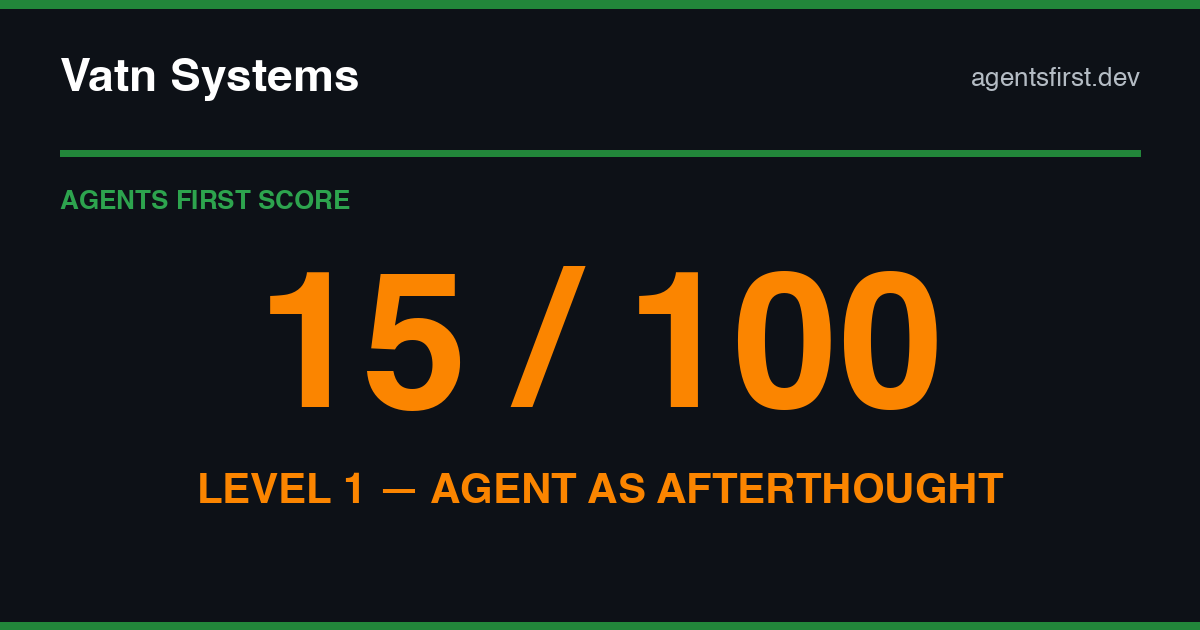
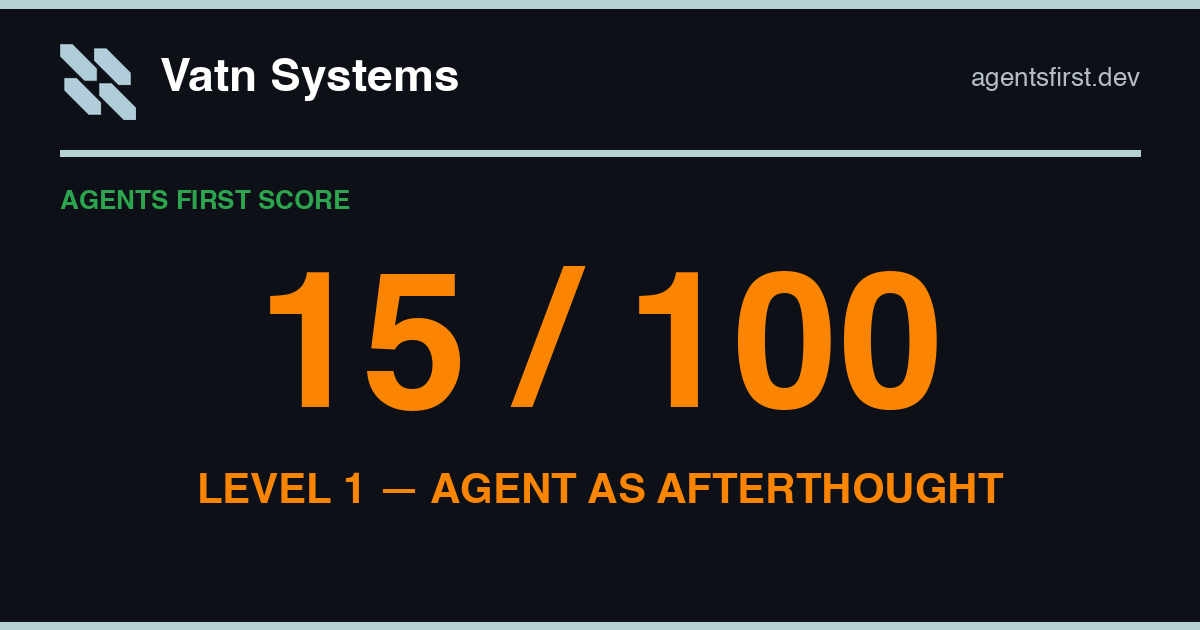
feat(og-card): brand 12 verified portfolio cards via brand_domain
Added brand_domain front-matter to 12 portfolio pages whose domains I verified
resolve to the right company (Aalo, Aceable, Allen Control, AmplifAI, App Orchid,
ICON, Radia, Vatn, X-Bow, Eagle Eye/een.com, TAE, Voyager). Left 4 logo-less to
avoid wrong logos: starlab.space (domain-for-sale parking page), casimir.co (dead),
keentechnologies.com (inconclusive), Circuit (too generic).

Changed region(s): [[0.0308, 0.0603, 0.9558, 0.2714], [0.0, 0.9651, 1.0, 1.0], [0.0, 0.0, 1.0, 0.0302]]

diff --git a/scores/portfolio-allen-control-systems-7ca6c92fa6f5/index.md b/scores/portfolio-allen-control-systems-7ca6c92fa6f5/index.md
@@ -4,6 +4,7 @@ description: "Score: 5/100 · Level 0 (No agent access). Allen Control Systems i
 noindex: true
 sitemap: false
 image: /scores/portfolio-allen-control-systems-7ca6c92fa6f5/og.png
+brand_domain: allencontrolsystems.com
 author: Joshua Baer
 ---
 

diff --git a/scores/portfolio-voyager-space-holdings-ec0657e7844b/index.md b/scores/portfolio-voyager-space-holdings-ec0657e7844b/index.md
@@ -4,6 +4,7 @@ description: "Score: 10/100 · Level 0 (No agent access). Voyager Space Holdings
 noindex: true
 sitemap: false
 image: /scores/portfolio-voyager-space-holdings-ec0657e7844b/og.png
+brand_domain: voyagerspace.com
 author: Joshua Baer
 ---
 

diff --git a/scores/portfolio-x-bow-systems-0ce513395ea2/index.md b/scores/portfolio-x-bow-systems-0ce513395ea2/index.md
@@ -4,6 +4,7 @@ description: "Score: 0/100 · Level 0 (No agent access). X-Bow Systems is a Capi
 noindex: true
 sitemap: false
 image: /scores/portfolio-x-bow-systems-0ce513395ea2/og.png
+brand_domain: xbowsystems.com
 author: Joshua Baer
 ---
 

diff --git a/scores/portfolio-vatn-systems-80d7c321c80c/index.md b/scores/portfolio-vatn-systems-80d7c321c80c/index.md
@@ -4,6 +4,7 @@ description: "Score: 15/100 · Level 1 (Agent as Afterthought). Vatn Systems is 
 noindex: true
 sitemap: false
 image: /scores/portfolio-vatn-systems-80d7c321c80c/og.png
+brand_domain: vatnsystems.com
 author: Joshua Baer
 ---
 

diff --git a/scores/portfolio-eagle-eye-networks-7fd6a17e1c26/index.md b/scores/portfolio-eagle-eye-networks-7fd6a17e1c26/index.md
@@ -4,6 +4,7 @@ description: "Score: 10/100 · Level 0 (No agent access). Eagle Eye Networks is 
 noindex: true
 sitemap: false
 image: /scores/portfolio-eagle-eye-networks-7fd6a17e1c26/og.png
+brand_domain: een.com
 author: Joshua Baer
 ---
 

diff --git a/scores/portfolio-app-orchid-2fa74a5f1af4/index.md b/scores/portfolio-app-orchid-2fa74a5f1af4/index.md
@@ -4,6 +4,7 @@ description: "Score: 5/100 · Level 0 (No agent access). App Orchid is a Capital
 noindex: true
 sitemap: false
 image: /scores/portfolio-app-orchid-2fa74a5f1af4/og.png
+brand_domain: apporchid.com
 author: Joshua Baer
 ---
 

diff --git a/scores/portfolio-aalo-atomics-ad7872443dda/index.md b/scores/portfolio-aalo-atomics-ad7872443dda/index.md
@@ -4,6 +4,7 @@ description: "Score: 0/100 · Level 0 (No agent access). Aalo Atomics is a Capit
 noindex: true
 sitemap: false
 image: /scores/portfolio-aalo-atomics-ad7872443dda/og.png
+brand_domain: aalo.com
 author: Joshua Baer
 ---
 

diff --git a/scores/portfolio-amplifai-63852d23f176/index.md b/scores/portfolio-amplifai-63852d23f176/index.md
@@ -4,6 +4,7 @@ description: "Score: 5/100 · Level 0 (No agent access). AmplifAI is a Capital F
 noindex: true
 sitemap: false
 image: /scores/portfolio-amplifai-63852d23f176/og.png
+brand_domain: amplifai.com
 author: Joshua Baer
 ---
 

diff --git a/scores/portfolio-aceable-29f759278d32/index.md b/scores/portfolio-aceable-29f759278d32/index.md
@@ -4,6 +4,7 @@ description: "Score: 5/100 · Level 0 (No agent access). Aceable is a Capital Fa
 noindex: true
 sitemap: false
 image: /scores/portfolio-aceable-29f759278d32/og.png
+brand_domain: aceable.com
 author: Joshua Baer
 ---
 

diff --git a/scores/portfolio-icon-cefab243df54/index.md b/scores/portfolio-icon-cefab243df54/index.md
@@ -4,6 +4,7 @@ description: "Score: 50/100 · Level 2 (Agent-Aware). ICON is a Capital Factory 
 noindex: true
 sitemap: false
 image: /scores/portfolio-icon-cefab243df54/og.png
+brand_domain: iconbuild.com
 author: Joshua Baer
 ---
 

diff --git a/scores/portfolio-radia-d3e6054e734f/index.md b/scores/portfolio-radia-d3e6054e734f/index.md
@@ -4,6 +4,7 @@ description: "Score: 5/100 · Level 0 (No agent access). Radia is a Capital Fact
 noindex: true
 sitemap: false
 image: /scores/portfolio-radia-d3e6054e734f/og.png
+brand_domain: radia.com
 author: Joshua Baer
 ---
 

diff --git a/scores/portfolio-tae-2ab0289348b4/index.md b/scores/portfolio-tae-2ab0289348b4/index.md
@@ -4,6 +4,7 @@ description: "Score: 0/100 · Level 0 (No agent access). TAE is a Capital Factor
 noindex: true
 sitemap: false
 image: /scores/portfolio-tae-2ab0289348b4/og.png
+brand_domain: tae.com
 author: Joshua Baer
 ---
 
